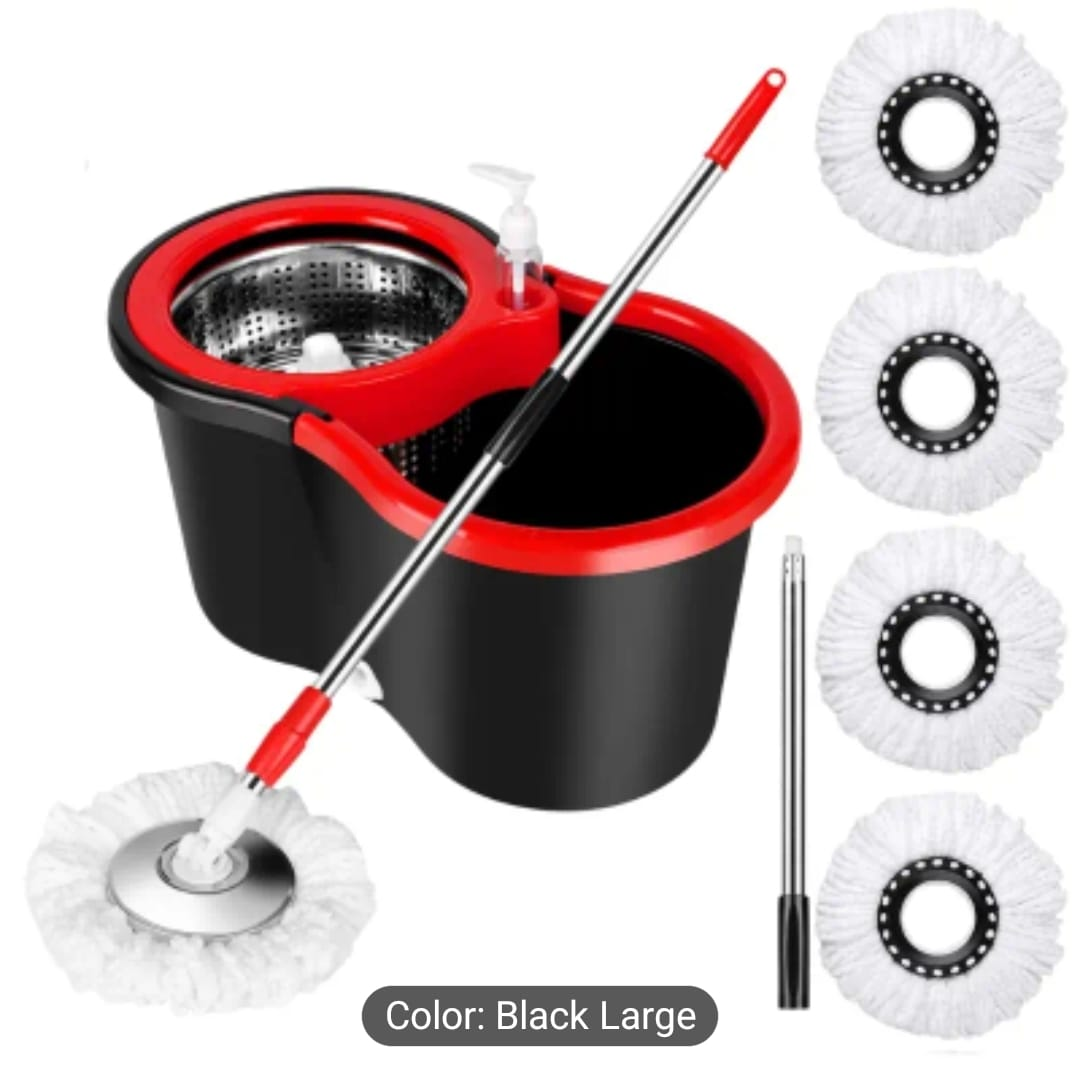
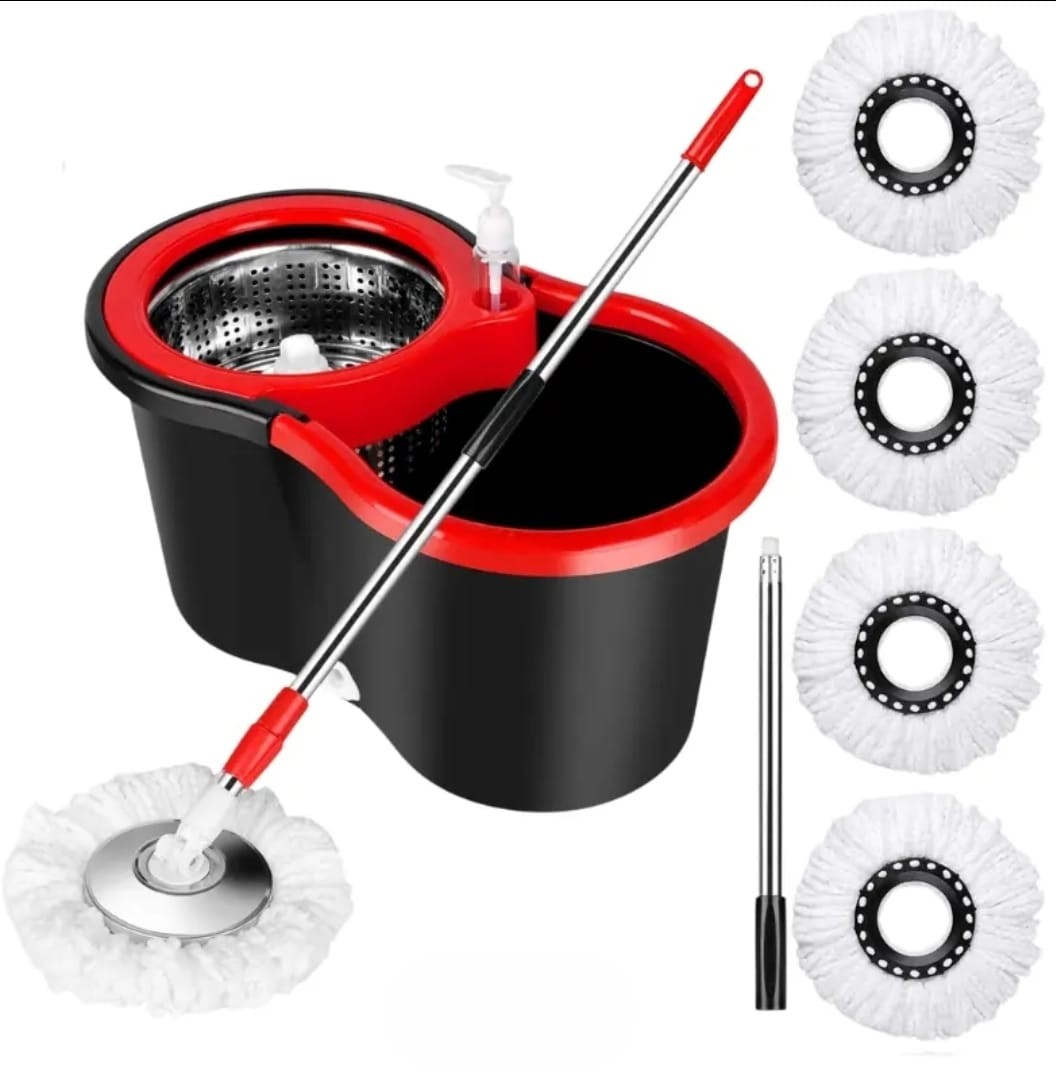
Add TG537 and TG667 speakers, update mop images, and add color dots to products

diff --git a/src/components/ShopFilter.svelte b/src/components/ShopFilter.svelte
@@ -33,6 +33,10 @@
     return typeof item === 'string' ? null : item.quantity;
   }
 
+  function getProductColors(item) {
+    return typeof item === 'string' ? null : item.colors;
+  }
+
   function formatPrice(price) {
     return price ? `${price.toLocaleString()} XAF` : null;
   }
@@ -75,7 +79,8 @@
                 subCategoryName: item.name,
                 price: getProductPrice(subItem),
                 quantity: getProductQuantity(subItem),
-                images: getProductImages(subItem)
+                images: getProductImages(subItem),
+                colors: getProductColors(subItem)
               });
             }
           });
@@ -90,7 +95,8 @@
               subCategoryName: null,
               price: getProductPrice(item),
               quantity: getProductQuantity(item),
-              images: getProductImages(item)
+              images: getProductImages(item),
+              colors: getProductColors(item)
             });
           }
         }
@@ -575,6 +581,13 @@
                 <p class="product-quantity">
                   {#if result.quantity > 0}
                     <span class="in-stock">In Stock: {result.quantity}</span>
+                    {#if result.colors}
+                      <span class="color-dots">
+                        {#each result.colors as color}
+                          <span class="color-dot" style="background: {color};" title={color}></span>
+                        {/each}
+                      </span>
+                    {/if}
                   {:else}
                     <span class="out-of-stock">Out of Stock</span>
                   {/if}
@@ -677,6 +690,13 @@
                                 <p class="product-quantity">
                                   {#if getProductQuantity(nestedProduct) > 0}
                                     <span class="in-stock">In Stock: {getProductQuantity(nestedProduct)}</span>
+                                    {#if getProductColors(nestedProduct)}
+                                      <span class="color-dots">
+                                        {#each getProductColors(nestedProduct) as color}
+                                          <span class="color-dot" style="background: {color};" title={color}></span>
+                                        {/each}
+                                      </span>
+                                    {/if}
                                   {:else}
                                     <span class="out-of-stock">Out of Stock</span>
                                   {/if}
@@ -745,6 +765,13 @@
                       <p class="product-quantity">
                         {#if getProductQuantity(subItem) > 0}
                           <span class="in-stock">In Stock: {getProductQuantity(subItem)}</span>
+                          {#if getProductColors(subItem)}
+                            <span class="color-dots">
+                              {#each getProductColors(subItem) as color}
+                                <span class="color-dot" style="background: {color};" title={color}></span>
+                              {/each}
+                            </span>
+                          {/if}
                         {:else}
                           <span class="out-of-stock">Out of Stock</span>
                         {/if}
@@ -815,6 +842,13 @@
                 <p class="product-quantity">
                   {#if getProductQuantity(item) > 0}
                     <span class="in-stock">In Stock: {getProductQuantity(item)}</span>
+                    {#if getProductColors(item)}
+                      <span class="color-dots">
+                        {#each getProductColors(item) as color}
+                          <span class="color-dot" style="background: {color};" title={color}></span>
+                        {/each}
+                      </span>
+                    {/if}
                   {:else}
                     <span class="out-of-stock">Out of Stock</span>
                   {/if}
@@ -1636,6 +1670,22 @@
   .in-stock {
     color: #27ae60;
     font-weight: 600;
+  }
+
+  .color-dots {
+    display: inline-flex;
+    gap: 5px;
+    margin-left: 8px;
+    vertical-align: middle;
+  }
+
+  .color-dot {
+    display: inline-block;
+    width: 14px;
+    height: 14px;
+    border-radius: 50%;
+    border: 2px solid #e0e0e0;
+    box-shadow: 0 1px 3px rgba(0, 0, 0, 0.15);
   }
 
   .out-of-stock {

diff --git a/src/data/categories.ts b/src/data/categories.ts
@@ -4,6 +4,7 @@ export interface Product {
   images?: string[];
   price?: number;
   quantity?: number;
+  colors?: string[];
 }
 
 export interface SubCategory {
@@ -362,7 +363,8 @@ export const categories: Category[] = [
               '/images/products/spin-mop-bucket-2.jpeg',
               '/images/products/spin-mop-bucket-3.jpeg',
               '/images/products/spin-mop-bucket-4.jpeg',
-              '/images/products/spin-mop-bucket-5.jpeg'
+              '/images/products/spin-mop-bucket-5.jpeg',
+              '/images/products/spin-mop-bucket-6.jpeg'
             ]
           }
         ]
@@ -392,7 +394,32 @@ export const categories: Category[] = [
       },
       {
         name: 'Audio & Entertainment',
-        items: []
+        items: [
+          {
+            name: 'TG537 Portable Wireless Speaker - TWS Technology',
+            price: 8000,
+            quantity: 6,
+            colors: ['#808080', '#e74c3c', '#2c2c2c'],
+            images: [
+              '/images/products/tg537-speaker-1.jpeg',
+              '/images/products/tg537-speaker-2.jpeg',
+              '/images/products/tg537-speaker-3.jpeg',
+              '/images/products/tg537-speaker-4.jpeg',
+              '/images/products/tg537-speaker-5.jpeg'
+            ]
+          },
+          {
+            name: 'TG667 Compact And Portable Wireless Speaker. It Supports USB, TF Cards, And FM Radio, And Can Connect to Mobile Phones, Tablets',
+            price: 8000,
+            quantity: 8,
+            colors: ['#e74c3c', '#2980b9', '#2c2c2c', '#800080'],
+            images: [
+              '/images/products/tg667-speaker-1.jpeg',
+              '/images/products/tg667-speaker-2.jpeg',
+              '/images/products/tg667-speaker-3.jpeg'
+            ]
+          }
+        ]
       },
       {
         name: 'Computers & Tablets',
